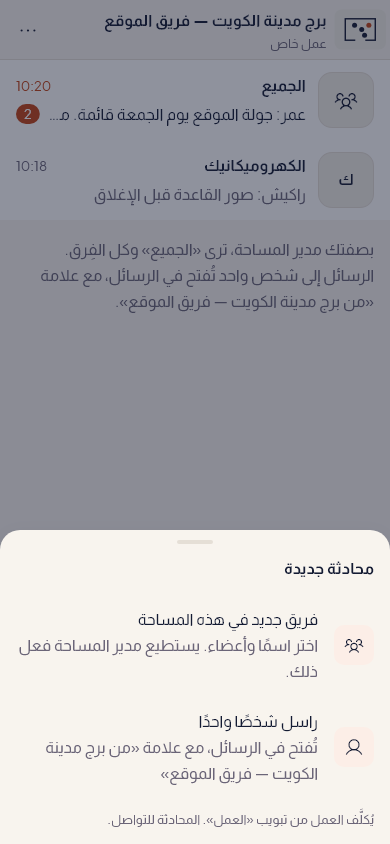
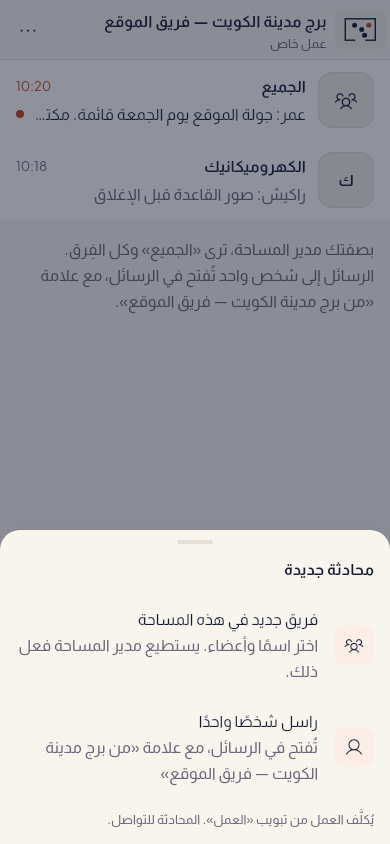
Lead's calls on the sweep: no member count on a Team, an unread dot on Space chat threads
- The Team screen's heading reads "Members" / «الأعضاء»; the counted
  spacesTeamMembers string is removed (rule 3).
- A Space chat thread's unread mark is the same dot as Messages, never
  a number.
- Tests updated; S7-chat and S7N-new-chat re-shot, T1-team shot, EN and AR.

Claude-Session: https://claude.ai/code/session_016oPA82J5NBCHhe9RzJRo9d

diff --git a/lib/features/chat/chat_tab.dart b/lib/features/chat/chat_tab.dart
@@ -21,7 +21,6 @@ import '../../data/repositories/space_repository.dart';
 import '../../data/repositories/work_repository.dart';
 import '../../l10n/gen/app_localizations.dart';
 import '../../shared/widgets/bv_avatar.dart';
-import '../../shared/widgets/bv_badge.dart';
 import '../../shared/widgets/bv_give_to_picker.dart';
 import '../../shared/widgets/bv_sheet.dart';
 import '../../shared/widgets/bv_text_field.dart';
@@ -336,11 +335,19 @@ class _ThreadRow extends ConsumerWidget {
                           ),
                         ),
                       ),
+                      // A dot, as in Messages: never a number (rule 3).
                       if (unread)
-                        BvBadge(
-                          key: Key('chat-unread-${thread.id}'),
-                          label: '${thread.unread}',
-                          tone: BvBadgeTone.action,
+                        Semantics(
+                          label: l10n.messagesUnread,
+                          child: Container(
+                            key: Key('chat-unread-${thread.id}'),
+                            width: BvMessagesSpec.dot,
+                            height: BvMessagesSpec.dot,
+                            decoration: const BoxDecoration(
+                              color: BvColors.actionPrimary,
+                              shape: BoxShape.circle,
+                            ),
+                          ),
                         ),
                     ],
                   ),

diff --git a/test/features/chat/chat_part1_test.dart b/test/features/chat/chat_part1_test.dart
@@ -8,6 +8,7 @@ import 'package:buildvibes/features/work/daybook_draft.dart';
 import 'package:buildvibes/features/work/daybook_tab.dart';
 import 'package:buildvibes/features/messages/dm_thread_screen.dart';
 import 'package:buildvibes/shared/widgets/bv_give_to_picker.dart';
+import 'package:buildvibes/core/design/messages_specs.dart';
 import 'package:flutter/material.dart';
 import 'package:flutter/services.dart';
 import 'package:flutter_riverpod/flutter_riverpod.dart';
@@ -229,6 +230,18 @@ void main() {
       );
       expect(find.byKey(const Key('chat-unread-$_everyone')), findsOneWidget);
       expect(find.byKey(const Key('chat-unread-$_mep')), findsNothing);
+      // A dot, as in Messages: never a number (rule 3).
+      expect(
+        find.descendant(
+          of: find.byKey(const Key('chat-unread-$_everyone')),
+          matching: find.byType(Text),
+        ),
+        findsNothing,
+      );
+      expect(
+        tester.getSize(find.byKey(const Key('chat-unread-$_everyone'))),
+        const Size(BvMessagesSpec.dot, BvMessagesSpec.dot),
+      );
       // Review 13: a card says what happened; Everyone has the group icon.
       expect(find.text(l10n.chatLastDone('Rakesh', 'KCT-017')), findsOneWidget);
       expect(find.byKey(const Key('chat-everyone-tile')), findsOneWidget);

diff --git a/test/features/spaces/spaces_part3_test.dart b/test/features/spaces/spaces_part3_test.dart
@@ -316,9 +316,6 @@ void main() {
             (w.key! as ValueKey<String>).value.startsWith('team-chip-'),
       );
       expect(chips, findsWidgets);
-      for (final n in [0, 1, 2, 3]) {
-        expect(find.textContaining(l10n.spacesTeamMembers(n)), findsNothing);
-      }
       final teamDigits = tester
           .widgetList<Text>(
             find.descendant(of: chips, matching: find.byType(Text)),
@@ -345,7 +342,14 @@ void main() {
       expect(spaces.calls.last, 'team Structure team [p-sara, p-rakesh]');
       expect(find.byType(TeamScreen), findsOneWidget);
       expect(find.text(l10n.spacesTeamIntro(_spaceName)), findsOneWidget);
-      expect(find.text(l10n.spacesTeamMembers(2)), findsOneWidget);
+      // "Members" over the people, never how many (rule 3).
+      expect(find.text(l10n.spacesTeamMembersTitle), findsOneWidget);
+      final digits = tester
+          .widgetList<Text>(find.byType(Text))
+          .map((t) => t.data ?? '')
+          .where((t) => RegExp(r'^\d+\b').hasMatch(t));
+      expect(digits, isEmpty, reason: 'no count on the Team screen');
+      expect(find.byKey(const Key('team-member-p-sara')), findsOneWidget);
     });
 
     testWidgets('a Team: Add people, Rename, Delete [$lang]', (tester) async {

diff --git a/test_screens/slice2_test.dart b/test_screens/slice2_test.dart
@@ -41,6 +41,7 @@ import 'package:buildvibes/shared/widgets/bv_give_to_picker.dart';
 import 'package:buildvibes/shared/widgets/bv_pinned_note.dart';
 import 'package:buildvibes/shared/widgets/bv_slip.dart';
 import 'package:buildvibes/shared/widgets/bv_writing_card.dart';
+import 'package:buildvibes/features/spaces/team_screen.dart';
 import 'package:flutter/material.dart';
 import 'package:flutter_riverpod/flutter_riverpod.dart';
 import 'package:flutter_riverpod/misc.dart' show Override;
@@ -868,6 +869,22 @@ void main() {
               needsMe: true,
             ),
           ],
+        ),
+      );
+    });
+
+    testWidgets('T1 a Team: "Members" over its people, never how many '
+        '(sweep) [$lang]', (tester) async {
+      await shoot(
+        tester,
+        'T1-team',
+        lang,
+        (_) => const TeamScreen(spaceId: DaybookSamples.space, teamId: 't-mep'),
+        folder: 'slice3',
+        overrides: await _overrides(
+          s,
+          now: DaybookSamples.thursday,
+          posts: const [],
         ),
       );
     });

diff --git a/lib/l10n/gen/app_localizations_ar.dart b/lib/l10n/gen/app_localizations_ar.dart
@@ -1329,19 +1329,7 @@ class AppLocalizationsAr extends AppLocalizations {
   String get spacesTeams => 'الفِرق';
 
   @override
-  String spacesTeamMembers(int n) {
-    String _temp0 = intl.Intl.pluralLogic(
-      n,
-      locale: localeName,
-      other: '$n عضو',
-      many: '$n عضوًا',
-      few: '$n أعضاء',
-      two: 'عضوان',
-      one: 'عضو واحد',
-      zero: 'لا أعضاء بعد',
-    );
-    return '$_temp0';
-  }
+  String get spacesTeamMembersTitle => 'الأعضاء';
 
   @override
   String get spacesNewTeam => 'فريق جديد';

diff --git a/lib/l10n/gen/app_localizations.dart b/lib/l10n/gen/app_localizations.dart
@@ -2384,11 +2384,11 @@ abstract class AppLocalizations {
   /// **'Teams'**
   String get spacesTeams;
 
-  /// Team size inside a Space (founder ok, 12 Oct).
+  /// The heading above a Team's people (no count, rule 3).
   ///
   /// In en, this message translates to:
-  /// **'{n, plural, =0{No members yet} =1{1 member} other{{n} members}}'**
-  String spacesTeamMembers(int n);
+  /// **'Members'**
+  String get spacesTeamMembersTitle;
 
   /// S10k link and S12 title.
   ///

diff --git a/lib/l10n/gen/app_localizations_en.dart b/lib/l10n/gen/app_localizations_en.dart
@@ -1325,16 +1325,7 @@ class AppLocalizationsEn extends AppLocalizations {
   String get spacesTeams => 'Teams';
 
   @override
-  String spacesTeamMembers(int n) {
-    String _temp0 = intl.Intl.pluralLogic(
-      n,
-      locale: localeName,
-      other: '$n members',
-      one: '1 member',
-      zero: 'No members yet',
-    );
-    return '$_temp0';
-  }
+  String get spacesTeamMembersTitle => 'Members';
 
   @override
   String get spacesNewTeam => 'New Team';

diff --git a/lib/features/spaces/team_screen.dart b/lib/features/spaces/team_screen.dart
@@ -187,7 +187,7 @@ class TeamScreen extends ConsumerWidget {
               BvSpace.s8,
             ),
             child: Text(
-              l10n.spacesTeamMembers(members.length),
+              l10n.spacesTeamMembersTitle,
               style: type.labelMd.copyWith(color: BvColors.textSecondary),
             ),
           ),

diff --git a/docs/reviews/sweep-report.md b/docs/reviews/sweep-report.md
@@ -78,7 +78,7 @@ None in code or copy. "Kuwait", "Egypt" and "+965" appear only in comments. The 
   - A tap opens its card in the daybook.
   - It goes once every point is ticked (the server stops returning it).
 
-## For the lead
+## For the lead (decided 23 Oct: both as recommended, applied)
 1. **"{n} members" on a Team's screen** (`team_screen.dart:190`, `spacesTeamMembers`): a count above the list of the Team's people, seen by everyone in the Space. Rule 3 names member counts. *Recommendation:* drop the number and keep the word "Members" as the list's heading, since the list shows who they are. "No members yet" stays.
 2. **Unread numbers on Space chat threads** (`chat_tab.dart:342`): a number, not a dot, while Messages and the tabs use a dot ("never a number", rule 3 as applied to DM1). *Recommendation:* a dot, to match DM1 and the tab dots.
 
@@ -97,3 +97,13 @@ None in code or copy. "Kuwait", "Egypt" and "+965" appear only in comments. The 
   - Shot again here, on this branch and on `slice2-app`, all 363 tests pass and **no image differs** between the two.
   - The committed images are left as they are.
 - **SQL stand-in:** 2,464 checks pass in every file. No migration on this branch.
+
+## The lead's decisions (23 Oct), applied
+- The Team screen's heading reads "Members" / «الأعضاء», with no count. `spacesTeamMembers` is gone; `spacesTeamMembersTitle` is new.
+- A Space chat thread shows an unread dot, the same as Messages (`BvMessagesSpec.dot`, labelled "Unread"), never a number.
+- Tests:
+  - `spaces_part3_test`: the Team screen has "Members" and no number.
+  - `chat_part1_test`: the unread mark is the 8 px dot with no text.
+- Shots in `docs/screens/slice3/` (cloud fonts; the PC re-shoots):
+  - `S7-chat` and `S7N-new-chat`, re-taken (the dot);
+  - `T1-team`, new.

diff --git a/docs/handoff.md b/docs/handoff.md
@@ -112,12 +112,13 @@ Live is at `20261031120000`. The 3D model views take the next date after 39. Pub
   - `needs_you()` already returns `checklist_for_you`, and `my_spaces()` counts it, but the app dropped those rows.
   - Now a checklist given to you is a "To tick" / «للتأشير» row in Needs you and on Home, until every point is ticked. It opens its card.
   - No migration.
-- **For the lead** (in the report, not changed):
-  - Team screen's "{n} members": recommendation, drop the number.
-  - The Space chat thread's unread number: recommendation, a dot as in Messages.
+- **The lead's two decisions, applied:**
+  - the Team screen's heading is "Members" / «الأعضاء», with no count (the unused string is removed);
+  - a Space chat thread's unread mark is a dot, as in Messages.
+  - Tests updated. `docs/screens/slice3/S7-chat`, `S7N-new-chat` (re-taken) and `T1-team` (new) are in EN and AR, shot with cloud fonts: the PC re-shoots them.
 - **Checks:**
   - `flutter analyze` clean.
-  - `flutter test` 1,717 pass (1 cloud-only failure, photo_privacy H1).
+  - `flutter test` 1,717 pass after the lead's changes too (1 cloud-only failure, photo_privacy H1).
   - Screenshot tests: all 363 pass when shot here. No image differs from `slice2-app` shot in the same place. The committed (PC) images are left as they are.
   - SQL stand-in: 2,464 pass.
 - **Not live, nothing deployed, nothing installed.**

diff --git a/docs/progress.md b/docs/progress.md
@@ -767,4 +767,5 @@ What is set on the live project today. The source of truth is `supabase/config.t
   - Needs you lists checklists given to you ("To tick"), as My Spaces counts them; no migration.
   - Two calls for the lead.
   - Checks: analyze clean; 1,717 tests pass (1 cloud-only failure); 363 screenshot tests pass shot here, none differs from `slice2-app`; 2,464 SQL checks pass.
+- **23 Oct** (cloud, `claude/sweep`): the lead's two calls: the Team screen says "Members" with no count; Space chat threads show an unread dot, not a number. Tests updated; S7-chat re-shot and T1-team shot, EN and AR.
 
